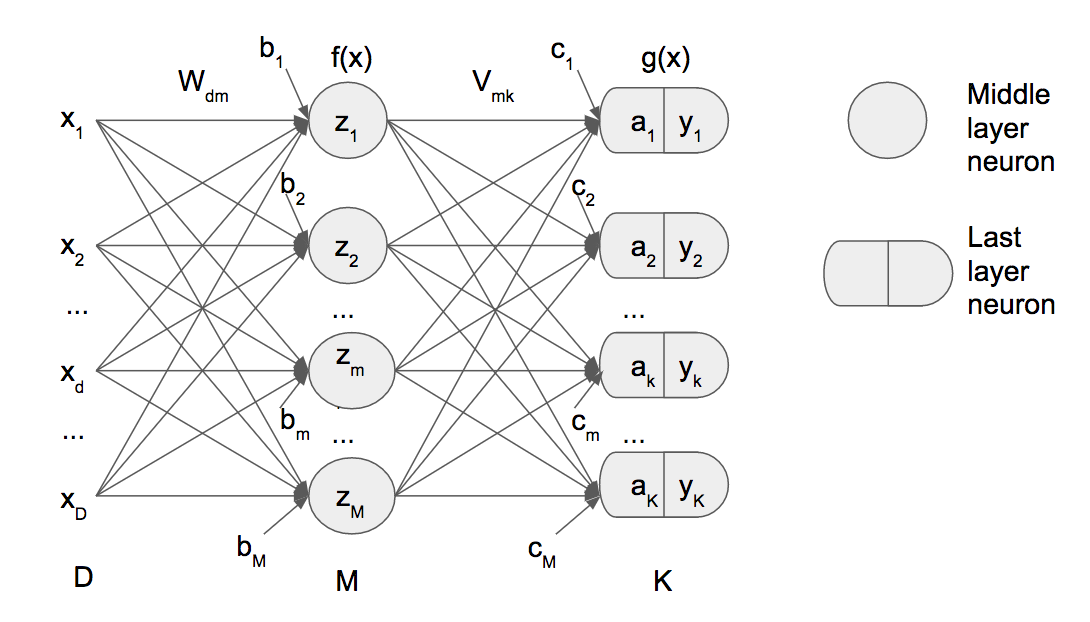
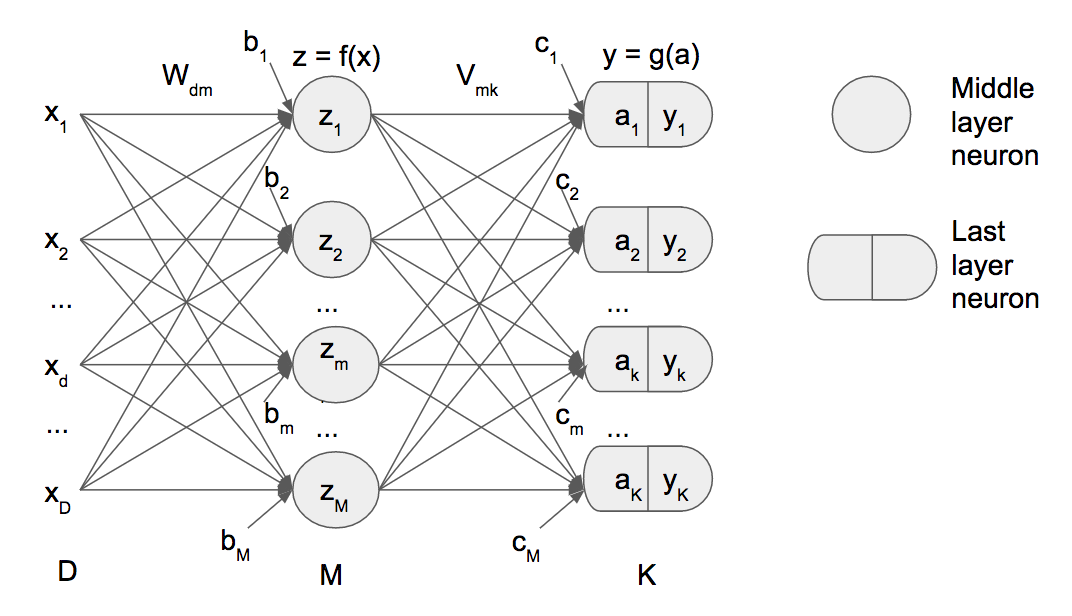
no message

diff --git a/_site/blog/2017/12/16/neural-network-theory/index.html b/_site/blog/2017/12/16/neural-network-theory/index.html
@@ -5,15 +5,15 @@
   <meta name="viewport" content="width=device-width, initial-scale=1">
   <meta http-equiv="x-ua-compatible" content="ie=edge">
   <meta name="theme-color" content="hsl(35, 36%, 95%)">
-  <title>Neural network back propagation</title>
+  <title>Neural network forward propagation</title>
 
   
   <meta name="description" content="
   
     
       
-        Neural network back propagation
-        27 Dec 2017
+        Neural network forward propagation
+        16 Dec 2017
         
           
         
@@ -22,13 +22,12 @@
     
       
       
-        
-  ..." />
+        ..." />
 
   
   <meta name="keywords" content="" />
 
-  <link rel="canonical" href="https://m-alcu.github.io//blog/2017/12/27/back-propagation-deep-learning/">
+  <link rel="canonical" href="https://m-alcu.github.io//blog/2017/12/16/neural-network-theory/">
   <link rel="alternate" type="application/rss+xml" title="Practicing Maths on IA" href="https://m-alcu.github.io//feed.xml" />
   <span itemprop='author'><meta name="author" content="Martín Alcubierre"><span itemprop='author'></span>
 
@@ -83,8 +82,8 @@ src="https://cdn.mathjax.org/mathjax/latest/MathJax.js?config=TeX-MML-AM_CHTML">
   <div class="container main">
     <div class="row">
       <header>
-        <center><span itemprop="name"><h1>Neural network back propagation</h1></span></center>
-        <center><p>27 Dec 2017</p></center>
+        <center><span itemprop="name"><h1>Neural network forward propagation</h1></span></center>
+        <center><p>16 Dec 2017</p></center>
         <center><span class="small-ornament"><svg viewBox="0 0 290 320">
           <path d="M280.2656 245.3906 Q280.2656 263.25 261.8438 271.9688 Q247.9219 278.7188 227.8125 278.7188 Q235.2656 269.8594 235.2656 256.5 Q235.2656 231.8906 214.4531 217.125 Q196.0312 204.0469 170.2969 204.0469 Q143.5781 204.0469 108.8438 221.0625 L118.9688 231.4688 Q154.4062 267.8906 168.3281 267.8906 Q181.125 267.8906 181.125 255.9375 Q181.125 248.3438 173.5312 243.5625 Q167.0625 239.3438 159.0469 239.3438 Q154.6875 239.3438 148.6406 241.4531 Q158.625 220.0781 173.9531 220.0781 Q184.5 220.0781 191.8828 228.0938 Q199.2656 236.1094 199.2656 246.6562 Q199.2656 265.5 184.3594 277.875 Q170.2969 289.4062 151.0312 289.4062 Q118.6875 289.4062 81.4219 251.0156 L72.1406 241.4531 Q53.5781 249.4688 39.375 249.4688 Q26.4375 249.4688 17.1562 240.9609 Q7.875 232.4531 7.875 219.5156 Q7.875 203.9062 19.125 193.9219 Q29.9531 184.5 45.8438 184.5 Q70.0312 184.5 98.2969 211.6406 Q111.5156 202.2188 127.5469 185.4844 L134.5781 178.1719 Q174.5156 136.6875 204.8906 136.6875 Q231.4688 136.6875 231.4688 155.25 Q231.4688 173.5312 204.3281 177.3281 Q206.4375 172.8281 206.4375 170.1562 Q206.4375 159.3281 193.3594 159.3281 Q175.2188 159.3281 144.2812 189 L137.1094 195.8906 Q165.2344 185.7656 191.25 185.7656 Q221.7656 185.7656 248.3438 200.1094 Q280.2656 217.2656 280.2656 245.3906 ZM61.1719 230.4844 Q44.5781 215.2969 37.2656 215.2969 Q27.9844 215.2969 27.9844 223.4531 Q27.9844 234.4219 42.75 234.4219 Q51.1875 234.4219 61.1719 230.4844z"/>
         </svg></span></center>
@@ -96,7 +95,7 @@ src="https://cdn.mathjax.org/mathjax/latest/MathJax.js?config=TeX-MML-AM_CHTML">
         <article lang="en">
           
           <blockquote>
-  <p>Demonstration of back propagation on neural networks</p>
+  <p>Demonstration of forward propagation on neural networks</p>
 </blockquote>
 
 <p>$x$ input for first hidden layer  <br />
@@ -120,71 +119,88 @@ $g(x)$ is the function of the last neuron [$sigmoid(x)$, $softmax(x)$, $linear(x
 
 <script type="math/tex; mode=display">Ln(P(Y=T|X))=\sum_{n=1}^N \sum_{k=1}^K t_k^{(n)}ln(y_k^{(n)}) \tag{2}</script>
 
-<p>From <a href="https://m-alcu.github.io/blog/2017/12/16/forward-propagation-deep-learning/">forward propagation formulas</a>:</p>
+<p>Example for $f(x)$ in tanh:</p>
 
 <script type="math/tex; mode=display">z_m = tanh(\sum_{d=1}^D {W_{dm}X_d+b)} \tag{3}</script>
+
+<p>Last layer example for $g(x)$ in softmax:</p>
 
 <script type="math/tex; mode=display">a_k = \sum_{m=1}^MV_{mk}z_m+c \tag{4}</script>
 
 <script type="math/tex; mode=display">y = softmax(a) \tag{5}</script>
 
+<p>Softmax is a vector function, every output depends on all inputs ($a_k$):</p>
+
 <script type="math/tex; mode=display">y_k = \dfrac{e^{a_k}}{ \sum_{i=1}^Ke^{a_i}} \tag{6}</script>
 
-<p>back propagation gradient searching max of Ln (Likelihood):</p>
+<blockquote>
+  <p>Neural network foward propagation formulas in matrix form:</p>
+</blockquote>
 
-<script type="math/tex; mode=display">V_{mk} = V_{mk} + \alpha \dfrac{\partial Ln}{\partial V_{mk}} \tag{7}</script>
+<ul>
+  <li>From one layer to the next layer</li>
+</ul>
 
-<script type="math/tex; mode=display">W_{dm} = W_{dm} + \alpha \dfrac{\partial Ln}{\partial W_{dm}} \tag{8}</script>
+<p><script type="math/tex">N\text {: samples}</script><br />
+<script type="math/tex">D\text {: Size of last but one hidden layer}</script><br />
+<script type="math/tex">M\text {: Size of last hidden layer}</script><br />
+<script type="math/tex">W\text {: weights of last hidden layer}</script><br />
+<script type="math/tex">b\text {: bias of last hidden layer}</script></p>
 
-<script type="math/tex; mode=display">\dfrac{\partial Ln}{\partial V_{mk}}=\sum_n \sum_{k'}\dfrac{\partial }{\partial V_{mk}} \Biggl(t^{(n)}_kln(y^{(n)}_k)\Biggl) \tag{9}</script>
+<p><script type="math/tex">o_1 = tanh(W_{D\times M}^\intercal x_1+b_{M\times 1})</script><br />
+<script type="math/tex">o_2 = tanh(W_{D\times M}^\intercal x_2+b_{M\times 1})</script><br />
+<script type="math/tex">...</script><br />
+<script type="math/tex">o_n = tanh(W_{D\times M}^\intercal x_n+b_{M\times 1})</script></p>
 
-<script type="math/tex; mode=display">\dfrac{\partial Ln}{\partial V_{mk}}=\sum_n \sum_{k'}t^{(n)}_{k'} \dfrac{\partial Ln}{\partial y^{(n)}_k} \dfrac{\partial y^{(n)}_k}{\partial a_k}\dfrac{\partial a_k}{\partial V_{mk}} \tag{10}</script>
+<script type="math/tex; mode=display">\begin{pmatrix}
+ o_1  \\
+ o_2 \\
+ \vdots  \\
+ o_n \\   
+ \end{pmatrix} = tanh(X_{N\times D}W_{D\times M}+B_{M\times 1})</script>
 
-<script type="math/tex; mode=display">\dfrac{\partial Ln}{\partial V_{mk}}=\sum_n \sum_{k'}t^{(n)}_{k'} \dfrac {1}{y^{(n)}_{k'}}\dfrac{\partial y^{(n)}_{k'}}{\partial a_k}\dfrac{\partial a_k}{\partial V_{mk}} \tag{11}</script>
+<ul>
+  <li>From the last but one hidden to the output (sigmoid):</li>
+</ul>
 
-<p>From derivative <a href="https://m-alcu.github.io/blog/2017/12/15/derivative-softmax/">softmax</a>:</p>
+<p><script type="math/tex">N\text {: samples}</script><br />
+<script type="math/tex">D\text {: Size of last but one hidden layer}</script><br />
+<script type="math/tex">M\text {: Size of last hidden layer}</script><br />
+<script type="math/tex">W\text {: weights of last hidden layer}</script><br />
+<script type="math/tex">b\text {: bias of last hidden layer}</script><br />
+<script type="math/tex">V\text {: weights of output neuron}</script><br />
+<script type="math/tex">c\text {: bias for output neuron}</script></p>
 
-<script type="math/tex; mode=display">\dfrac{\partial y^{(n)}_{k'}}{\partial a_k}= y_{k'}(\delta_{kk'}-y_k) \tag{12}</script>
+<p><script type="math/tex">y_1 = \sigma(V^\intercal tanh(W_{D\times M}^\intercal x_1+b_{M\times 1})+c)</script><br />
+<script type="math/tex">y_2 = \sigma(V^\intercal tanh(W_{D\times M}^\intercal x_2+b_{M\times 1})+c)</script><br />
+<script type="math/tex">...</script><br />
+<script type="math/tex">y_n = \sigma(V^\intercal tanh(W_{D\times M}^\intercal x_n+b_{M\times 1})+c)</script></p>
 
-<script type="math/tex; mode=display">\require{cancel}\dfrac{\partial Ln}{\partial V_{mk}}=\sum_n \sum_{k'}t^{(n)}_{k'} \dfrac {1}{\cancel {y^{(n)}_{k'}}}\cancel {y^{(n)}_{k'}}(\delta_{kk'}-y^{(n)}_k)\dfrac{\partial a_k}{\partial V_{mk}} \tag{13}</script>
+<script type="math/tex; mode=display">\begin{pmatrix}
+ y_1  \\
+ y_2 \\
+ \vdots  \\
+ y_n \\   
+ \end{pmatrix} = \sigma(tanh(X_{N\times D}W_{D\times M}+b_{M\times 1})V+c)</script>
 
-<script type="math/tex; mode=display">\dfrac{\partial Ln}{\partial V_{mk}}=\sum_n \sum_{k'}t^{(n)}_{k'} \delta_{kk'}\dfrac{\partial a_k}{\partial V_{mk}}-\sum_n \sum_{k'}t^{(n)}_{k'} y^{(n)}_{k'}\dfrac{\partial a_k}{\partial V_{mk}} \tag{14}</script>
+<script type="math/tex; mode=display">% <![CDATA[
+X_{N\times D}W_{D\times M}+bm_{M\times 1} = X_{N\times D}W_{D\times M} +\begin{pmatrix}
+ - & b^\intercal & - \\
+ - & b^\intercal & - \\
+- &  \vdots  & - \\
+ - & b^\intercal & - \\   
+ \end{pmatrix}_{N\times M} %]]></script>
 
-<script type="math/tex; mode=display">\dfrac{\partial Ln}{\partial V_{mk}}=\sum_n t^{(n)}_{k} \dfrac{\partial a_k}{\partial V_{mk}}-\sum_n  y^{(n)}_{k'}\dfrac{\partial a_k}{\partial V_{mk}} \tag{15}</script>
+<ul>
+  <li>From the last but one hidden to the output K&gt;2 (softmax):</li>
+</ul>
 
-<script type="math/tex; mode=display">\dfrac{\partial Ln}{\partial V_{mk}}=\sum_n (t^{(n)}_{k'} -y^{(n)}_k)\dfrac{\partial a_k}{\partial V_{mk}} \tag{16}</script>
-
-<p>From <a href="https://m-alcu.github.io/blog/2017/12/16/forward-propagation-deep-learning/">forward propagation formulas</a>:</p>
-
-<script type="math/tex; mode=display">\dfrac{\partial a_k}{\partial V_{mk}}= z^{(n)}_m \tag{17}</script>
-
-<script type="math/tex; mode=display">\bbox[5px,border:2px solid black] {\begin{align*} \dfrac{\partial Ln}{\partial V_{mk}}= \sum_n ( t^{(n)}_k-y^{(n)}_k)z^{(n)}_m \end{align*}} \tag{18}</script>
-
-<script type="math/tex; mode=display">\dfrac{\partial Ln}{\partial W_{dm}}=\sum_n \sum_{k'}\dfrac{\partial }{\partial W_{dm}} \Biggl(t^{(n)}_{k'} ln(y^{(n)}_{k'})\Biggl) \tag{19}</script>
-
-<p>From <a href="https://m-alcu.github.io/blog/2017/12/20/derivatives-algebra/">partial derivatives rule</a></p>
-
-<script type="math/tex; mode=display">f=f(a_1(x), a_2(x), ...,a_K(x))\tag{20}</script>
-
-<script type="math/tex; mode=display">\frac {df}{dx} = \sum^K_{k=1}  \dfrac{\partial f}{\partial a_k} \dfrac{\partial a_k}{\partial x} \tag{21}</script>
-
-<script type="math/tex; mode=display">\dfrac{\partial Ln}{\partial W_{dm}}=\sum_n \sum_{k'} \dfrac{\partial Ln}{\partial y^{(n)}_{k'}} \sum_k\dfrac{\partial y^{(n)}_{k'}}{\partial a_k} \dfrac{\partial a_k}{\partial z^{(n)}_m}\dfrac{\partial z^{(n)}_m}{\partial W_{dm}} \tag{22}</script>
-
-<script type="math/tex; mode=display">\dfrac{\partial Ln}{\partial W_{dm}}=\sum_n \sum_{k'}  t^{(n)}_{k'} \dfrac{1}{y^{(n)}_{k'}} \sum_{k}\dfrac{\partial y^{(n)}_{k'}}{\partial a_k} \dfrac{\partial a_k}{\partial z^{(n)}_m}\dfrac{\partial z^{(n)}_m}{\partial W_{dm}} \tag{23}</script>
-
-<script type="math/tex; mode=display">\require{cancel}\dfrac{\partial Ln}{\partial W_{dm}}=\sum_n \sum_{k'} \sum_{k}t^{(n)}_{k'} \dfrac{1}{\cancel {y^{(n)}_{k'}}} \cancel {y^{(n)}_{k'}} ( \delta_{kk'}- y^{(n)}_k)\dfrac{\partial a_k}{\partial z^{(n)}_m}\dfrac{\partial z^{(n)}_m}{\partial W_{dm}} \tag{24}</script>
-
-<script type="math/tex; mode=display">\dfrac{\partial Ln}{\partial W_{dm}}=\sum_n \sum_{k} ( t^{(n)}_k - y^{(n)}_k)\dfrac{\partial a_k}{\partial z^{(n)}_m}\dfrac{\partial z^{(n)}_m}{\partial W_{dm}} \tag{25}</script>
-
-<p>From <a href="https://m-alcu.github.io/blog/2017/12/20/sigmoid-derivative/">derivative of sigmoid</a></p>
-
-<script type="math/tex; mode=display">z_m = sigmoid(\sum^D_{d=1} W_{dm}x_d) \tag{27}</script>
-
-<script type="math/tex; mode=display">\dfrac{\partial a_k}{\partial z^{(n)}_m}= \dfrac{\partial}{\partial z^{(n)}_m}(\sum^M_{m'=1} V_{m'k}z_{m'}) = V_{mk} \tag{28}</script>
-
-<script type="math/tex; mode=display">\dfrac{\partial z^{(n)}_m}{\partial W_{dm}} = z^{(n)}_m(1-z^{(n)}_m) x_d \tag{29}</script>
-
-<script type="math/tex; mode=display">\bbox[5px,border:2px solid black] {\begin{align*} \dfrac{\partial Ln}{\partial W_{dm}}=\sum_n \sum_{k} ( t^{(n)}_k - y^{(n)}_k) V_{mk}z^{(n)}_m(1-z^{(n)}_m)x^{(n)}_d \end{align*}} \tag{30}</script>
+<script type="math/tex; mode=display">\begin{pmatrix}
+ y_1  \\
+ y_2 \\
+ \vdots  \\
+ y_n \\   
+ \end{pmatrix} = softmax(tanh(X_{N\times D}W_{D\times M}+bm_{M\times 1})V+c)</script>
 
 
         </article>
@@ -199,8 +215,8 @@ $g(x)$ is the function of the last neuron [$sigmoid(x)$, $softmax(x)$, $linear(x
     <script type="text/javascript">
       /* <![CDATA[ */
       var disqus_shortname = "https-m-alcu-github-io";
-      var disqus_identifier = "https://m-alcu.github.io/_Neural network back propagation";
-      var disqus_title = "Neural network back propagation";
+      var disqus_identifier = "https://m-alcu.github.io/_Neural network forward propagation";
+      var disqus_title = "Neural network forward propagation";
       /* * * DON'T EDIT BELOW THIS LINE * * */
       (function() {
           var dsq = document.createElement('script'); dsq.type = 'text/javascript'; dsq.async = true;

diff --git a/_site/index.html b/_site/index.html
@@ -181,6 +181,8 @@ src="https://cdn.mathjax.org/mathjax/latest/MathJax.js?config=TeX-MML-AM_CHTML">
       <p> 
             <a href=""></a>
           
+            <a href="/blog/2017/12/16/neural-network-theory/">Neural network forward propagation</a>,&nbsp;&nbsp;
+        
             <a href="/blog/2017/12/16/forward-propagation-deep-learning/">Neural network forward propagation</a>
            </p>
       
@@ -203,6 +205,8 @@ src="https://cdn.mathjax.org/mathjax/latest/MathJax.js?config=TeX-MML-AM_CHTML">
             <a href=""></a>
           
             <a href="/blog/2017/12/27/back-propagation-deep-learning/">Neural network back propagation</a>,&nbsp;&nbsp;
+        
+            <a href="/blog/2017/12/16/neural-network-theory/">Neural network forward propagation</a>,&nbsp;&nbsp;
         
             <a href="/blog/2017/12/16/forward-propagation-deep-learning/">Neural network forward propagation</a>
            </p>
